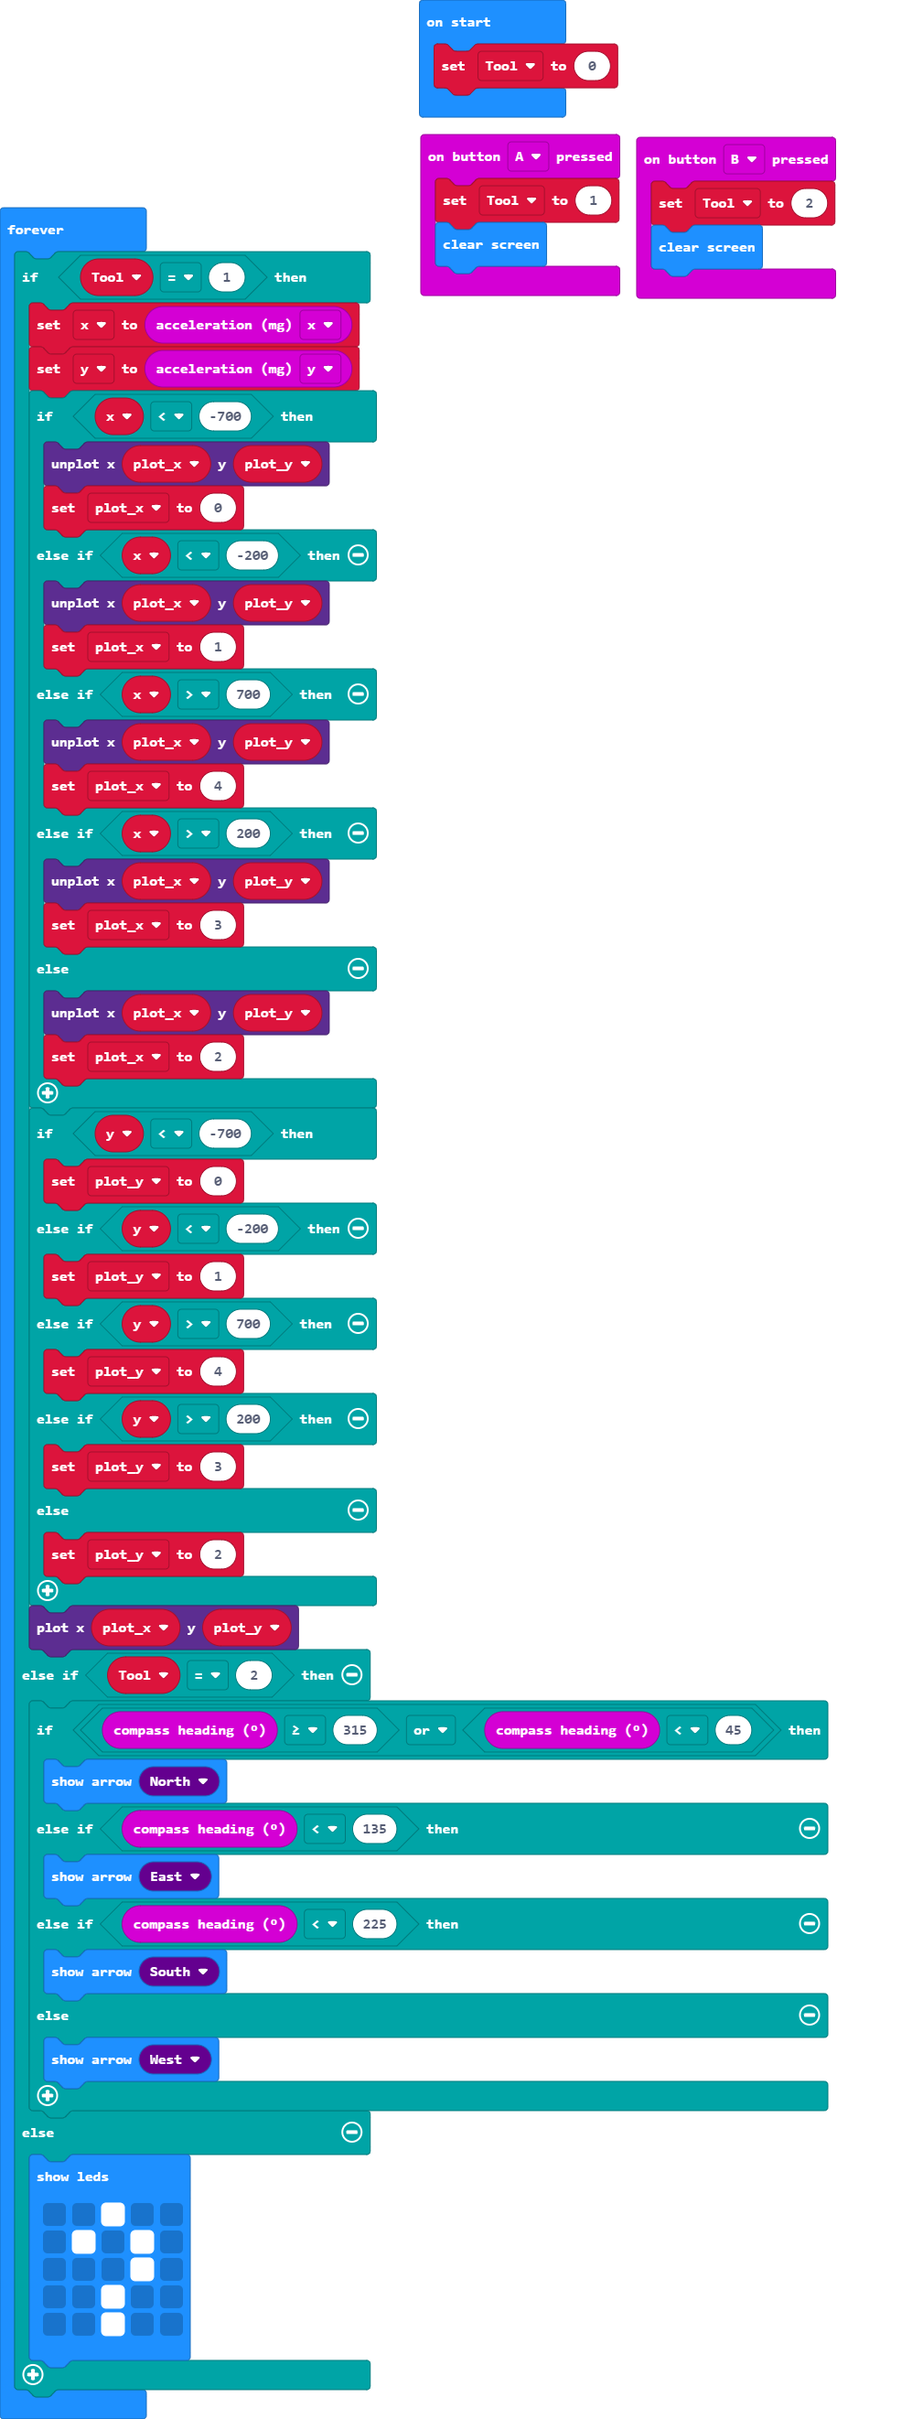
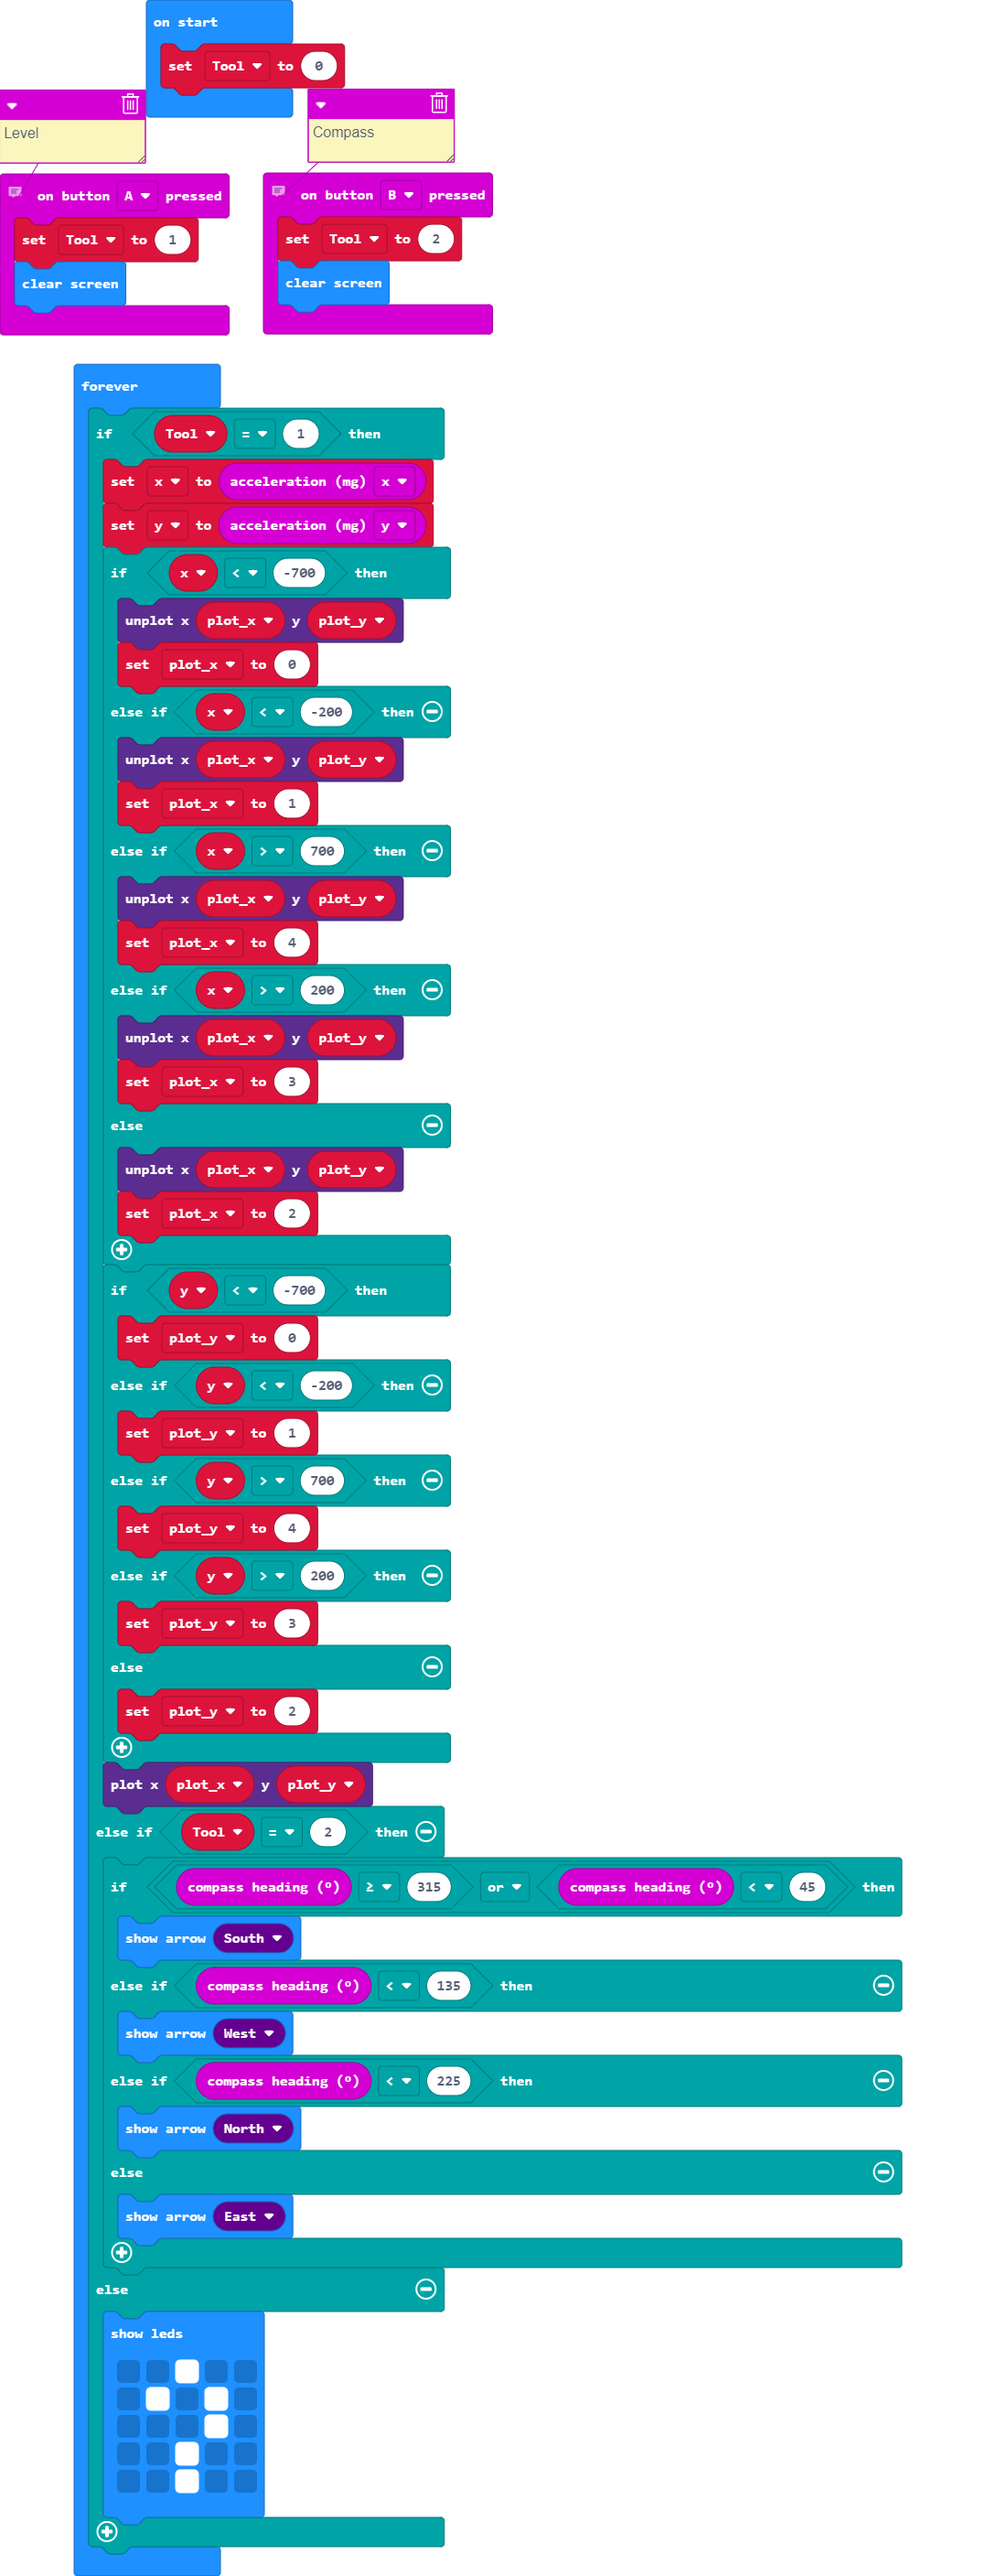
Update main.blocks, main.ts

diff --git a/main.ts b/main.ts
@@ -1,7 +1,9 @@
+// Level
 input.onButtonPressed(Button.A, function () {
     Tool = 1
     basic.clearScreen()
 })
+// Compass
 input.onButtonPressed(Button.B, function () {
     Tool = 2
     basic.clearScreen()
@@ -46,13 +48,13 @@ basic.forever(function () {
         led.plot(plot_x, plot_y)
     } else if (Tool == 2) {
         if (input.compassHeading() >= 315 || input.compassHeading() < 45) {
-            basic.showArrow(ArrowNames.North)
-        } else if (input.compassHeading() < 135) {
-            basic.showArrow(ArrowNames.East)
-        } else if (input.compassHeading() < 225) {
             basic.showArrow(ArrowNames.South)
-        } else {
+        } else if (input.compassHeading() < 135) {
             basic.showArrow(ArrowNames.West)
+        } else if (input.compassHeading() < 225) {
+            basic.showArrow(ArrowNames.North)
+        } else {
+            basic.showArrow(ArrowNames.East)
         }
     } else {
         basic.showLeds(`
